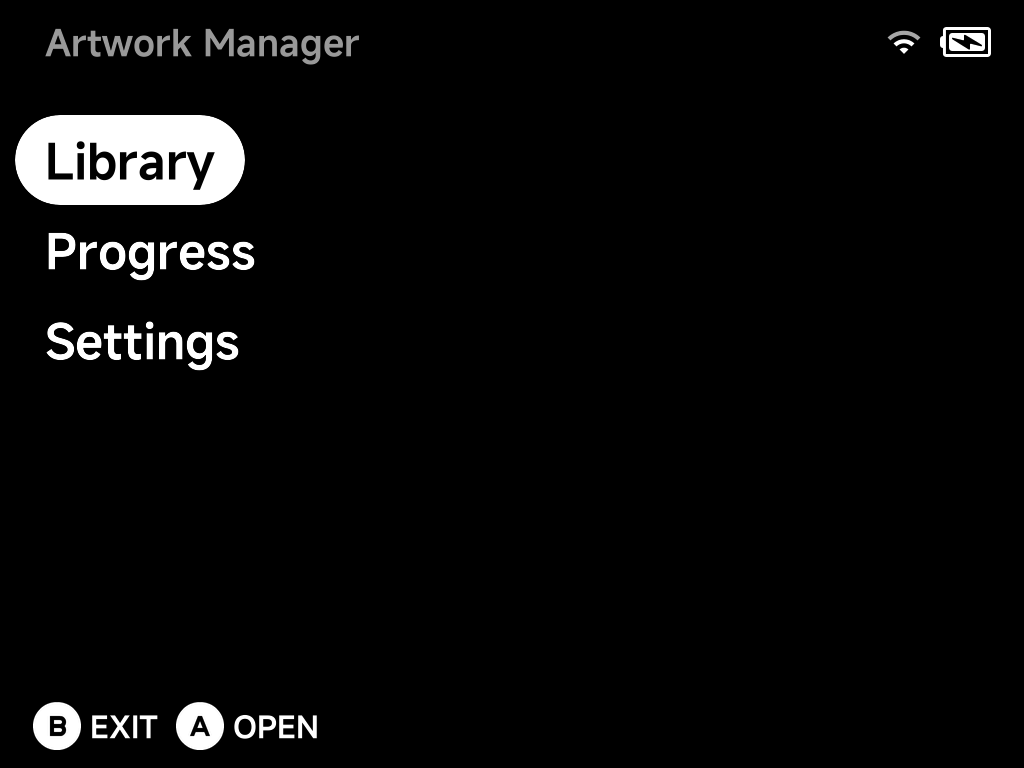
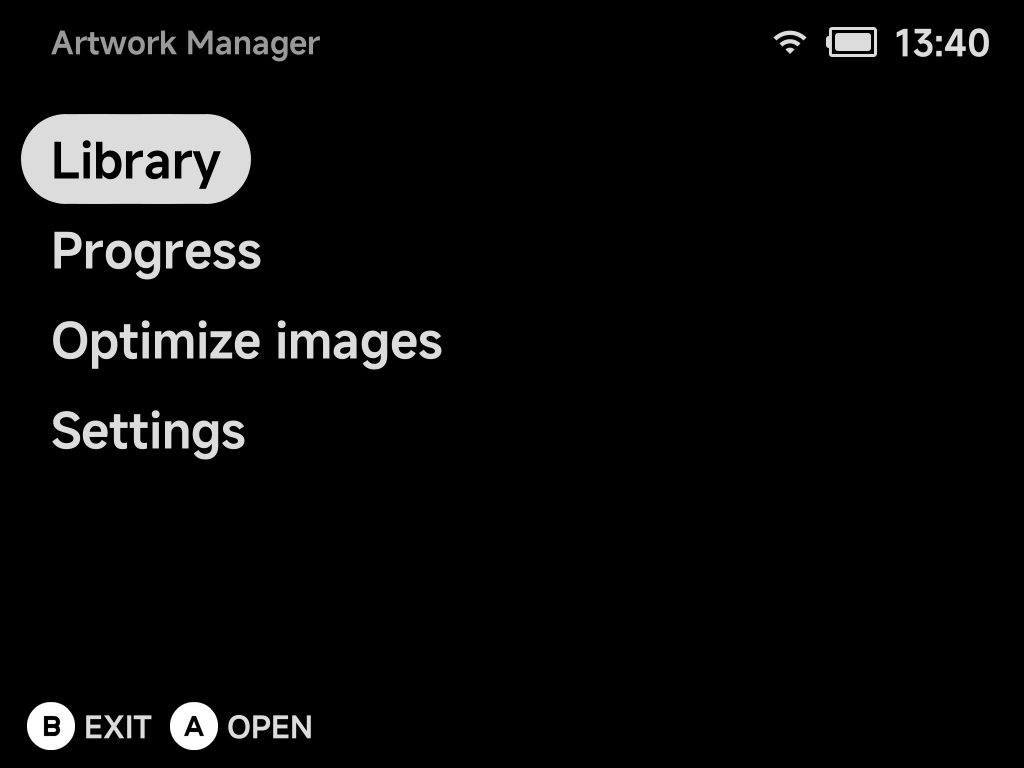
docs(artwork-manager): Optimize images and 256-colour art

diff --git a/docs/handheld/apps/artwork-manager.md b/docs/handheld/apps/artwork-manager.md
@@ -111,12 +111,48 @@ the screenshot for List, Grid and Carousel, and both for Backdrop.
     An image is skipped when ScreenScraper has none for the game. A game with
     no art at all gets a generated placeholder picture in the menus instead.
 
+    Both are saved as 256-colour PNGs at their full size: they look the same
+    on the handheld's screen and take about a third of the space. Art fetched
+    by older releases can be shrunk the same way with
+    [Optimize images](#optimize-images).
+
 !!! note "Art fetched by older releases"
     Releases up to v1.13.0 also made a **Mix** image (the screenshot with
     the box art and logo over it) at `.media/<game>.png`, and releases up to
     v1.9.0 made only the Mix. The menus no longer use it, and a game with only
     a Mix counts as having no art: queue it again to fetch the screenshot and
     box art.
+
+## Optimize images
+
+**Optimize images** shrinks the art already on your SD card. Each screenshot
+and box art is rewritten as a 256-colour PNG at the same size, so it looks the
+same in the menus but takes far less space, typically a third of the
+original. It is most useful for art fetched by older releases, which saved
+full-colour files.
+
+![Optimize images confirmation](../../assets/screenshots/artwork-optimize.png)
+
+After you confirm, a progress page shows the system being worked on and how
+many files are done. Press `B` to stop: the file in progress is finished first,
+so nothing is left half-written. When it ends, a summary shows how many files
+were optimized and how much space was saved.
+
+!!! warning "This can't be undone"
+    The original full-colour files are replaced. If you want to keep them,
+    copy the `.media` folders off the card first.
+
+??? info "More detail"
+    - It covers every `.media` folder under `Roms`, including art inside game
+      sub-folders: the `screenshot` and `boxart` images and any older art
+      directly in `.media`.
+    - The folder backgrounds (`bg.png`, `bglist.png`) are left alone.
+    - A file that is already optimized, or that would not get smaller, is
+      skipped, so running it again is quick and safe.
+    - The device stays awake while it runs. A large library can take a few
+      minutes: about 400 images took 6 minutes on a Smart Pro S and saved
+      over half the space.
+    - It can't start while a fetch queue is running.
 
 ## Settings — reset
 
